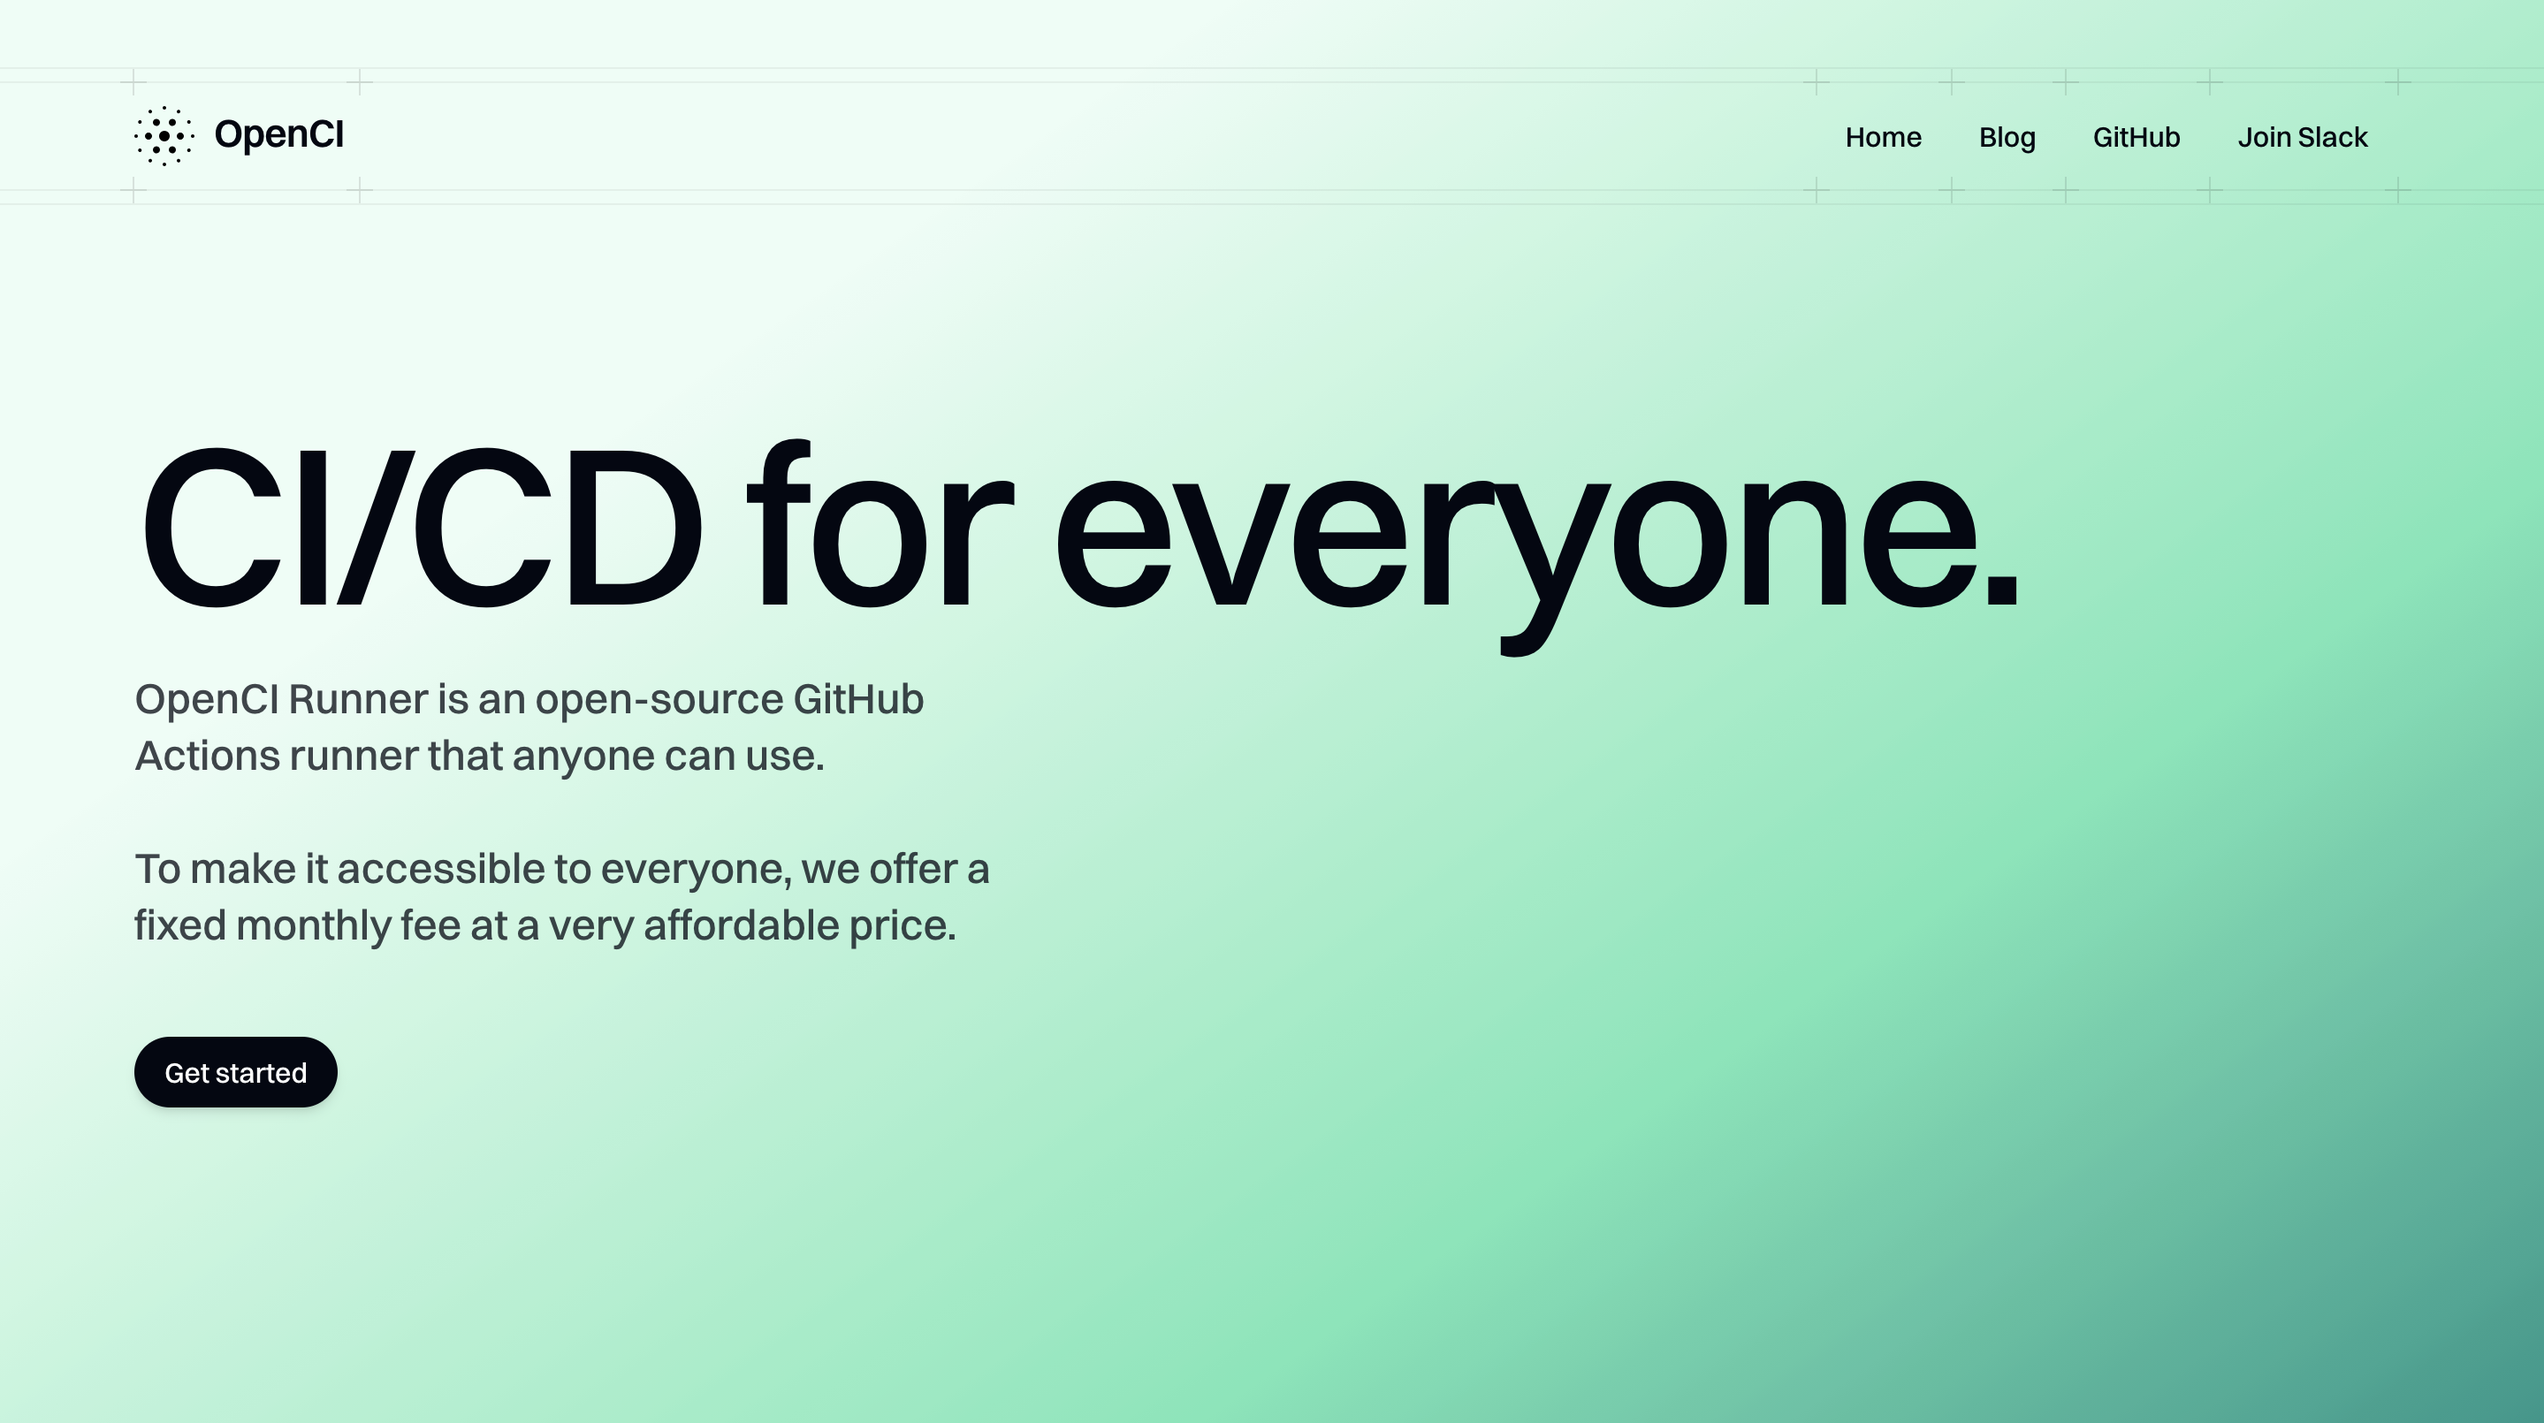
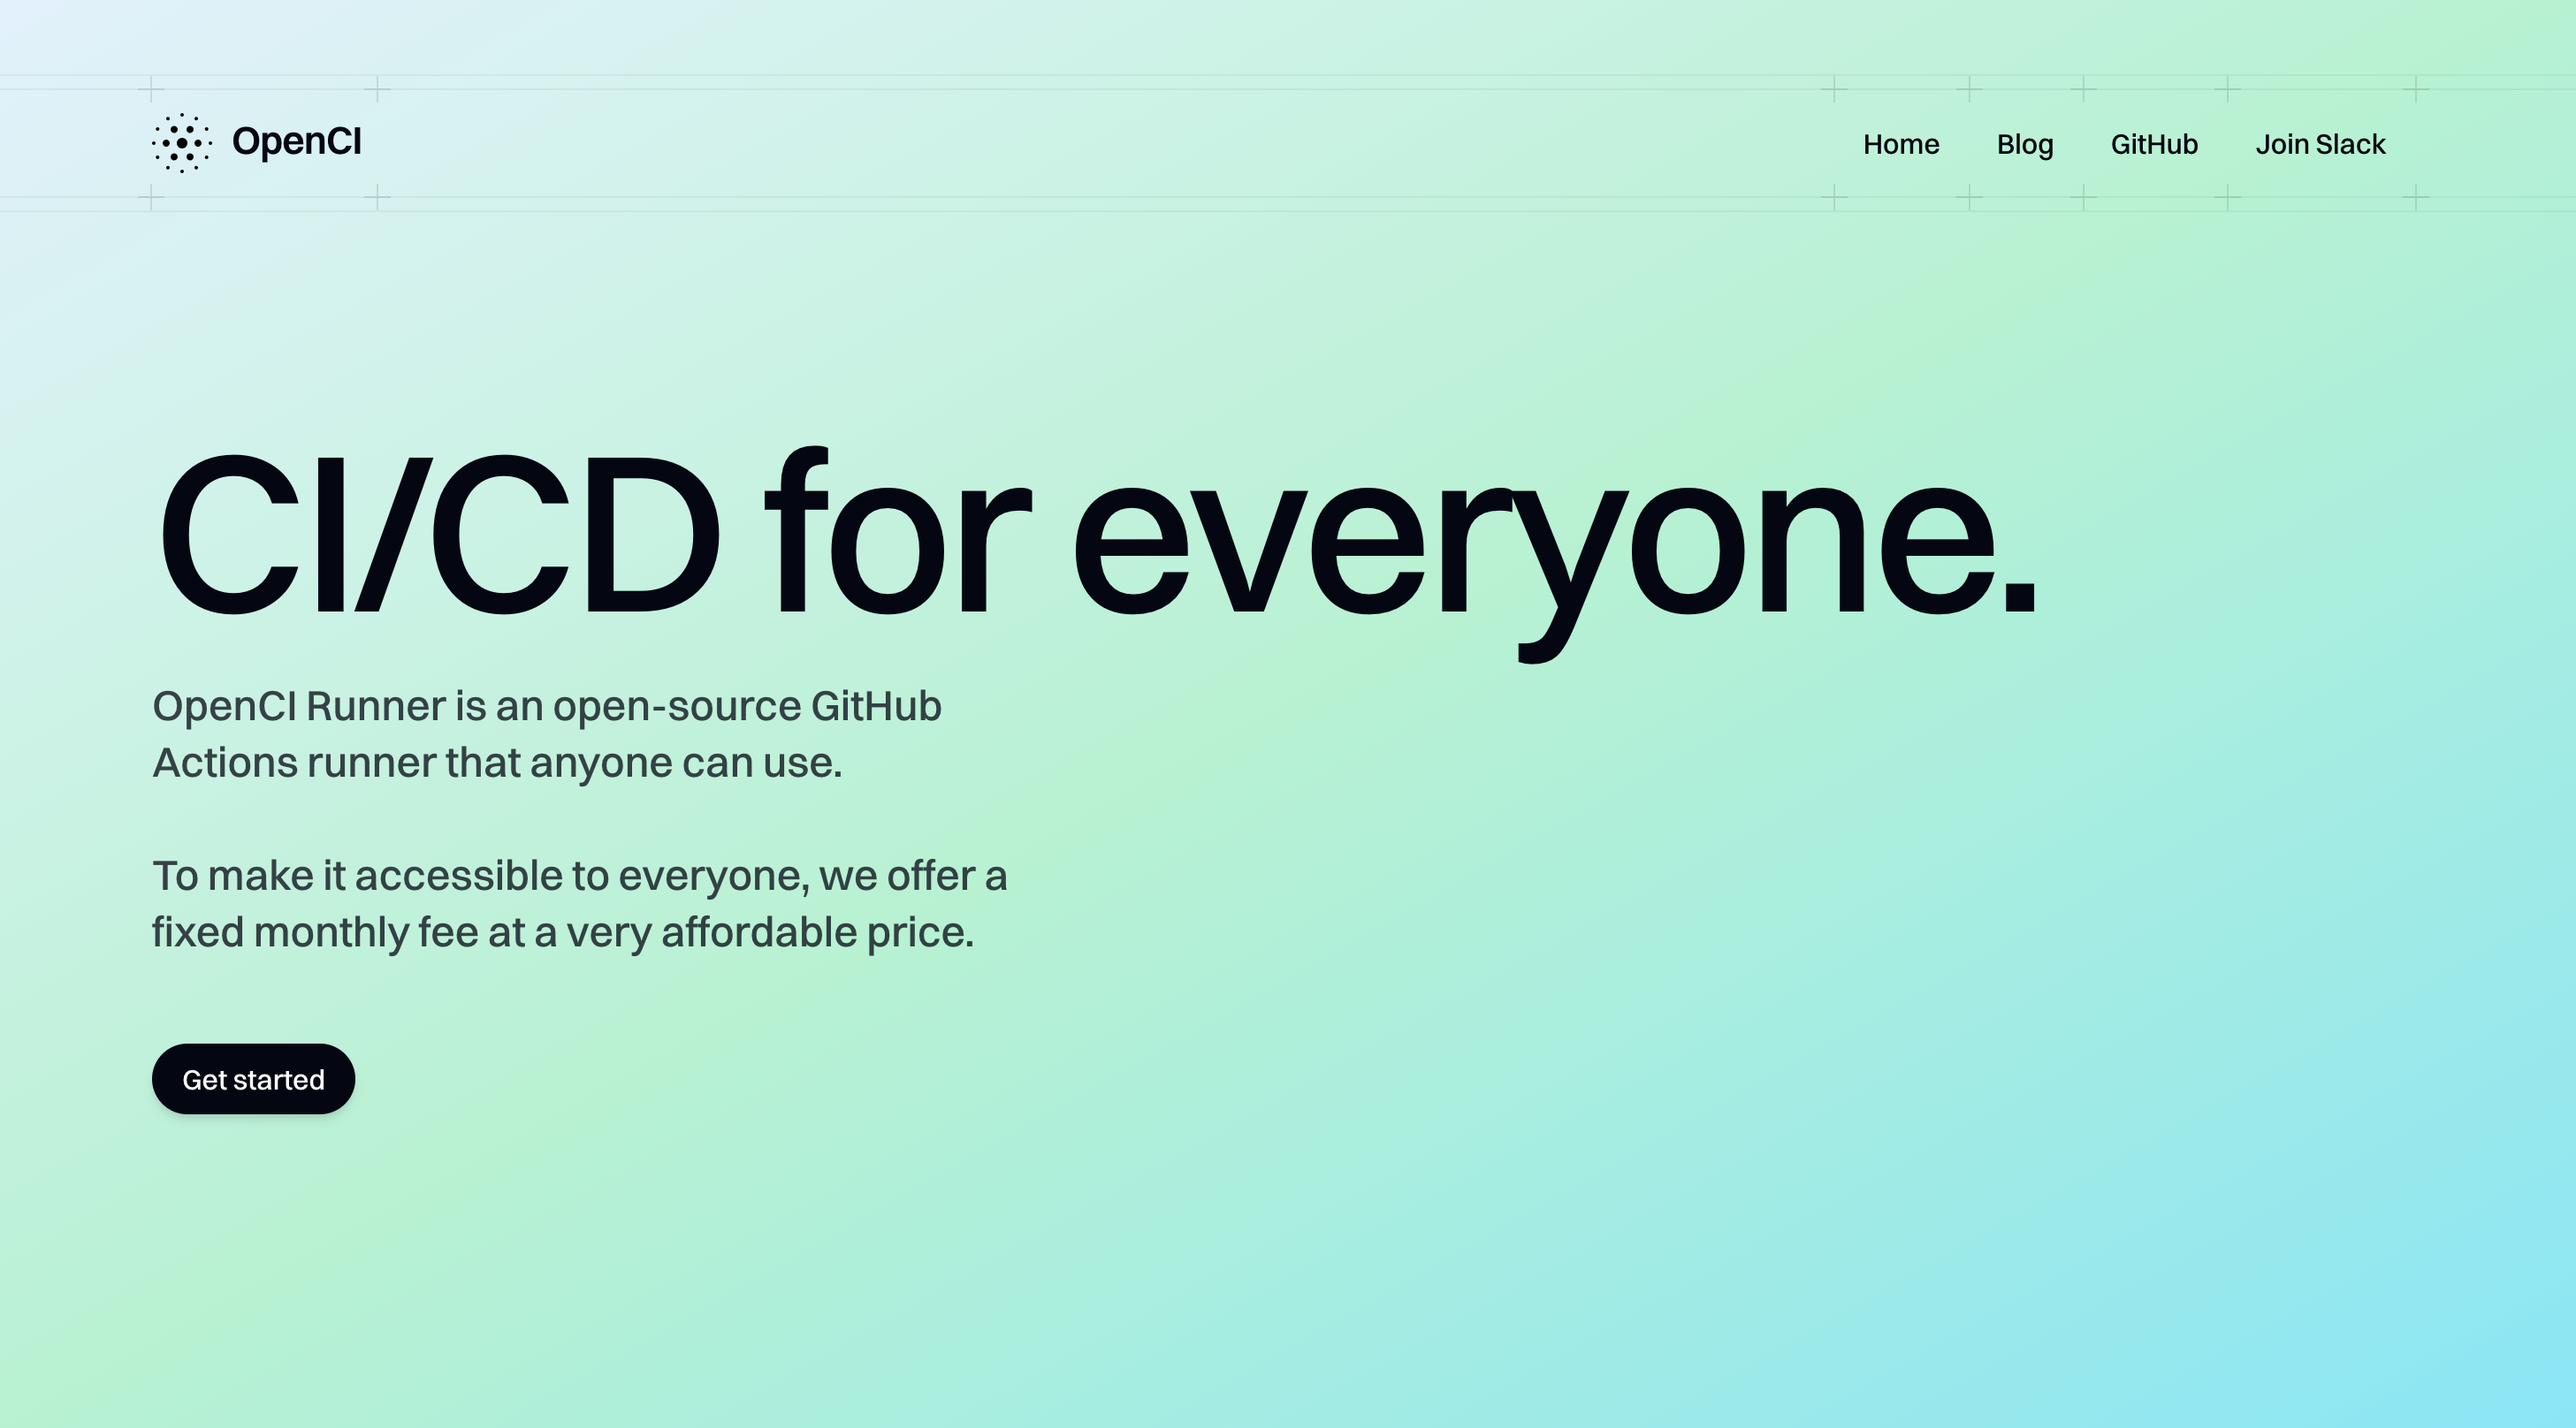
fix: update gradient styles for improved visual appeal (#744)
* fix: update gradient styles for consistency and improved visual appeal

* refactor: extract gradient styles into a constant for improved maintainability

* fix: update GitHub repository link for accuracy

diff --git a/openci_runner/lp/src/components/gradient.tsx b/openci_runner/lp/src/components/gradient.tsx
@@ -1,18 +1,13 @@
 import { clsx } from 'clsx'
 
+const GRADIENT_CLASSES =
+  'bg-linear-to-br from-[#e0f2fe] via-[#a7f3d0] via-50% to-[#67e8f9]'
+
 export function Gradient({
   className,
   ...props
 }: React.ComponentPropsWithoutRef<'div'>) {
-  return (
-    <div
-      {...props}
-      className={clsx(
-        className,
-        'bg-linear-115 from-[#ecfdf5] from-28% via-[#6ee7b7] via-70% to-[#0d9488] sm:bg-linear-145',
-      )}
-    />
-  )
+  return <div {...props} className={clsx(className, GRADIENT_CLASSES)} />
 }
 
 export function GradientBackground() {
@@ -21,8 +16,8 @@ export function GradientBackground() {
       <div
         className={clsx(
           'absolute -top-44 -right-60 h-60 w-xl transform-gpu md:right-0',
-          'bg-linear-115 from-[#ecfdf5] from-28% via-[#6ee7b7] via-70% to-[#0d9488]',
-          'rotate-[-10deg] rounded-full blur-3xl',
+          GRADIENT_CLASSES,
+          'rotate-[-10deg] rounded-full opacity-60 blur-3xl',
         )}
       />
     </div>

diff --git a/openci_runner/lp/src/constants.ts b/openci_runner/lp/src/constants.ts
@@ -1,6 +1,6 @@
 const slackInviteLink =
   'https://join.slack.com/t/open-ci-io/shared_invite/zt-3ectydtjn-GbcRVXkX~DKVFZNAqB~XtQ'
-const githubRepositoryLink = 'https://github.com/openci-inc/openci'
+const githubRepositoryLink = 'https://github.com/open-ci-io/openci'
 const homepageLink = 'https://openci.org'
 
 export { githubRepositoryLink, homepageLink, slackInviteLink }
